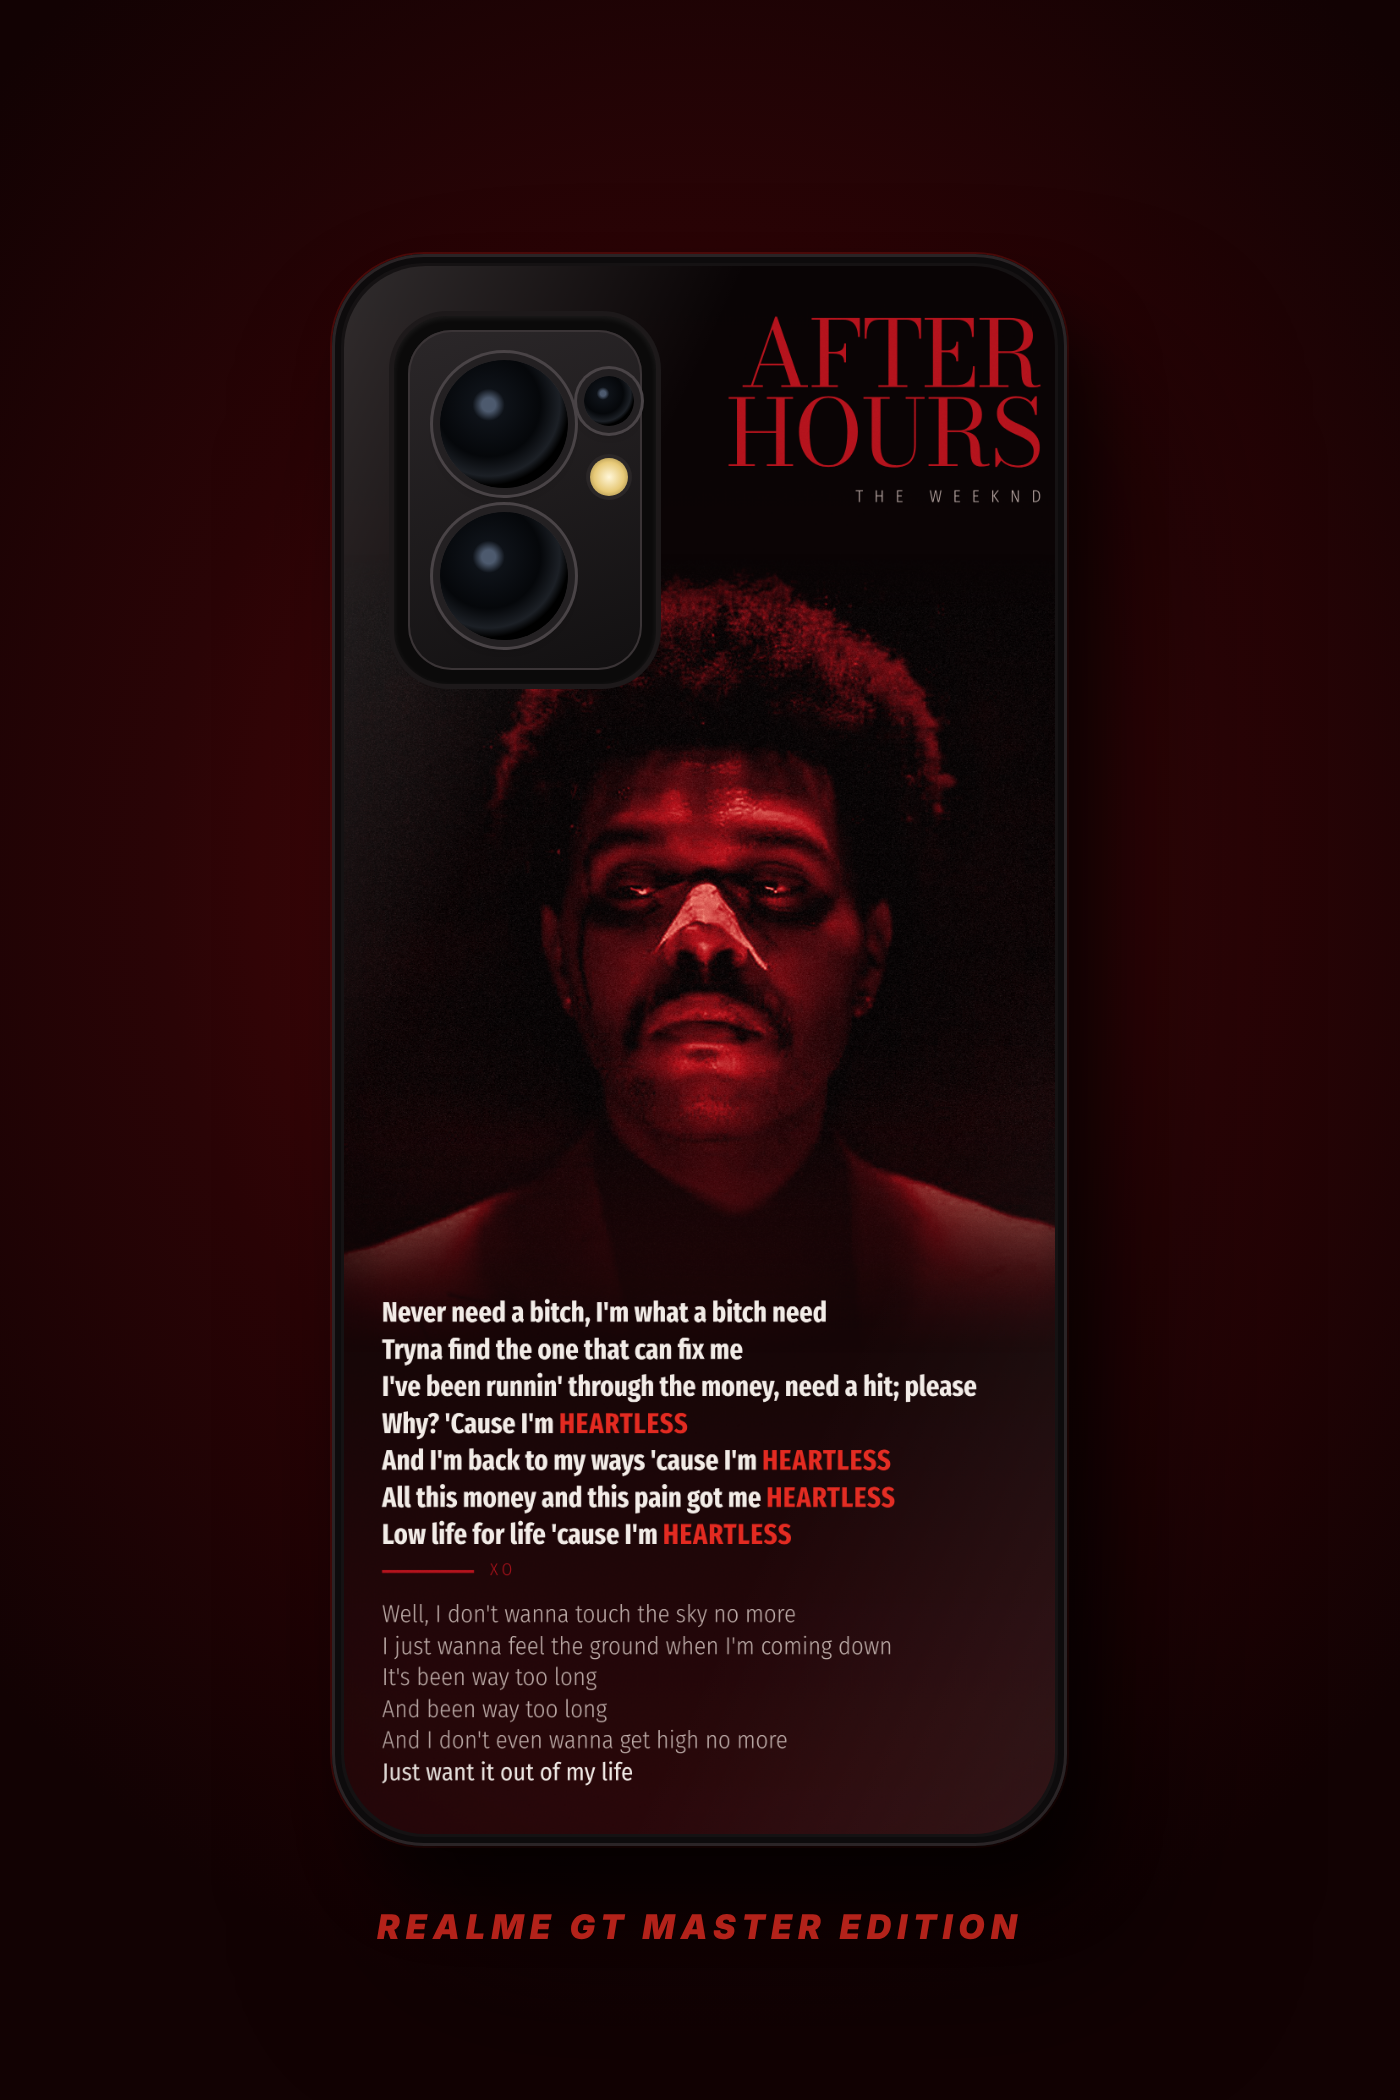
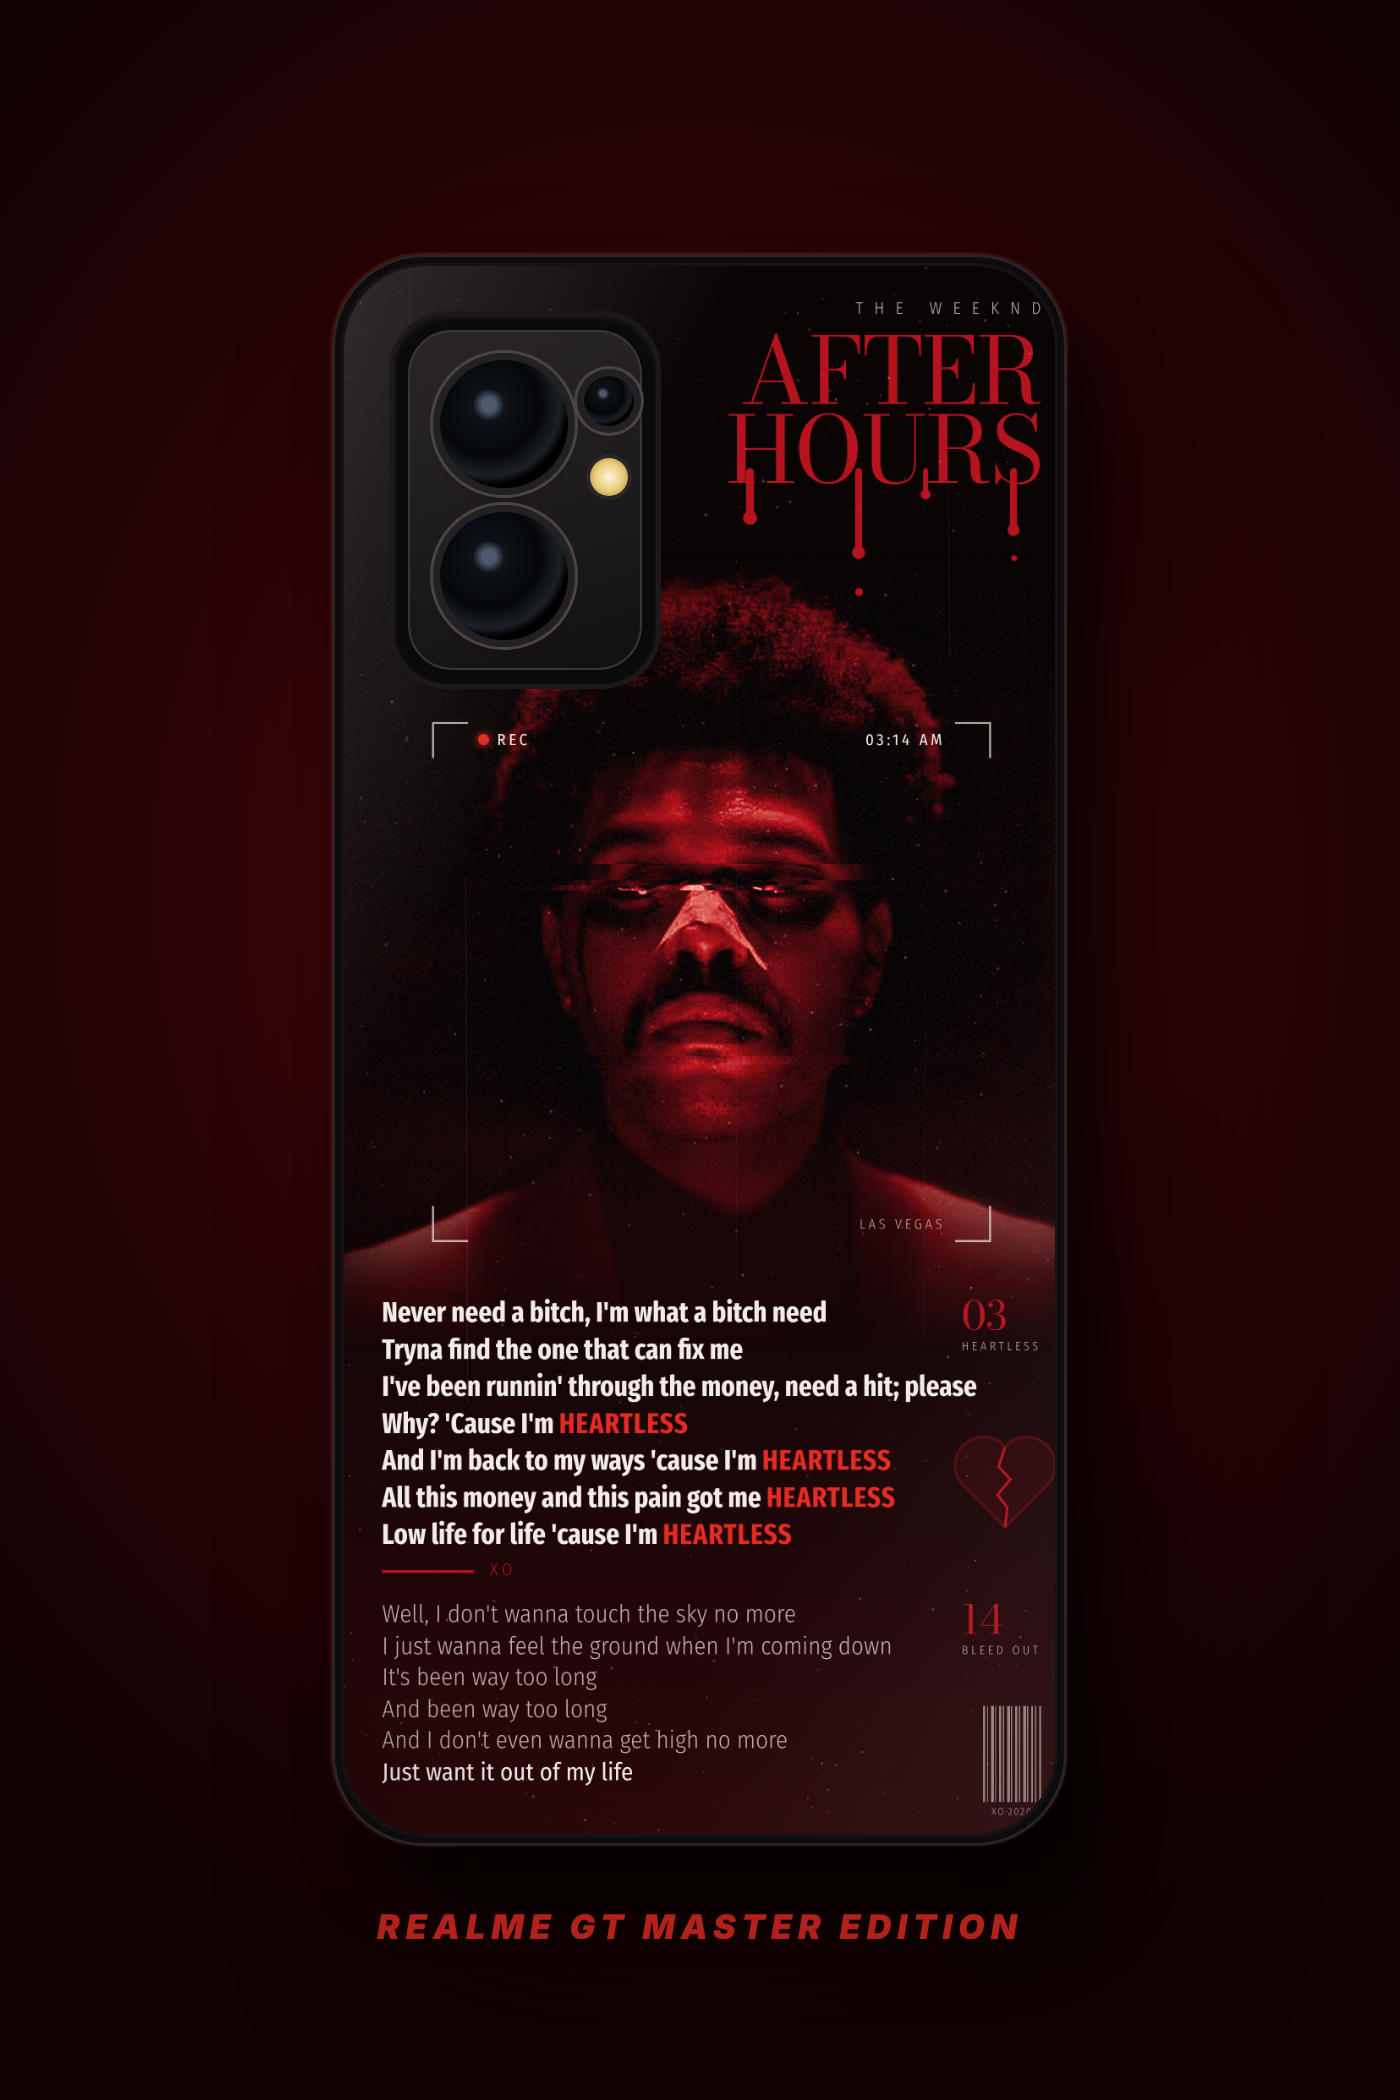
غلاف v3: إفكتات (نقط دم، شبح، جلتش، تراب فيلم، ضوء) + رموز (كادر REC، أرقام التراكات، قلب مكسور، باركود)
Claude-Session: https://claude.ai/code/session_011VfX9anDrDiMrvdnRutvkn

diff --git a/ghelaf/v3/cover.html b/ghelaf/v3/cover.html
@@ -19,9 +19,9 @@ html, body { margin: 0; background: #000; }
     linear-gradient(var(--coal) 0, #0d0405 55%, #2a0609 100%); }
 
 /* الماستهيد فوق يمين جنب الكاميرا */
-.mast { position: absolute; right: 68px; top: 78px; text-align: right; color: var(--blood); }
+.mast { position: absolute; right: 68px; top: 64px; text-align: right; color: var(--blood); }
 .mast h1 { margin: 0; font: 400 92px/.86 Bodoni; letter-spacing: -2px; }
-.mast small { display: block; margin-top: 16px; font: 300 17px/1 FiraC; letter-spacing: 11px; color: var(--mute); margin-right: -11px; }
+.mast small { display: block; margin-bottom: 14px; font: 300 17px/1 FiraC; letter-spacing: 11px; color: var(--mute); margin-right: -11px; }
 
 .portrait { position: absolute; left: -52px; top: 318px; width: 900px; }
 
@@ -36,17 +36,76 @@ html, body { margin: 0; background: #000; }
 .grain { position: absolute; inset: 0; opacity: .28; mix-blend-mode: overlay; pointer-events: none; }
 .vignette { position: absolute; inset: 0; pointer-events: none;
   background: radial-gradient(120% 90% at 50% 45%, transparent 55%, rgba(0,0,0,.55)); }
+
+/* ===== إفكتات ===== */
+/* شبح: نسخة مزحزحة من الصورة — إحساس الدوخة والوجع */
+.ghost { position: absolute; left: -38px; top: 314px; width: 900px; opacity: .28; mix-blend-mode: screen; filter: blur(1.5px); }
+/* جلتش: شرايح من الصورة متزحلقة عند العين والبق */
+.slice { position: absolute; left: -52px; top: 318px; width: 900px; }
+.s1 { clip-path: inset(38.6% 24% 59.4% 26%); transform: translateX(18px); }
+.s2 { clip-path: inset(41.2% 30% 58.1% 28%); transform: translateX(-12px); filter: brightness(1.5); }
+.s3 { clip-path: inset(62.5% 32% 36.4% 34%); transform: translateX(10px); }
+/* ضوء أحمر داخل من الركن */
+.leak { position: absolute; right: -180px; top: 380px; width: 520px; height: 620px; border-radius: 50%;
+  background: radial-gradient(closest-side, rgba(226,40,31,.32), transparent); mix-blend-mode: screen; }
+.dust { position: absolute; inset: 0; width: 795px; height: 1652px; opacity: .55; mix-blend-mode: screen; pointer-events: none; }
+.drips { position: absolute; left: 0; top: 0; }
+
+/* ===== رموز ===== */
+/* كادر كاميرا حوالين الوش */
+.vf { position: absolute; left: 118px; top: 486px; width: 559px; height: 520px; }
+.vf i { position: absolute; width: 34px; height: 34px; border: 0 solid rgba(242,235,230,.7); }
+.vf i:nth-child(1) { left: 0; top: 0; border-width: 2px 0 0 2px; }
+.vf i:nth-child(2) { right: 0; top: 0; border-width: 2px 2px 0 0; }
+.vf i:nth-child(3) { left: 0; bottom: 0; border-width: 0 0 2px 2px; }
+.vf i:nth-child(4) { right: 0; bottom: 0; border-width: 0 2px 2px 0; }
+.vf .rec { position: absolute; left: 46px; top: 10px; font: 400 16px/1 FiraC; letter-spacing: 3px; color: var(--ink); }
+.vf .rec::before { content: ""; display: inline-block; width: 11px; height: 11px; border-radius: 50%; background: var(--hot); margin-right: 8px; box-shadow: 0 0 8px var(--hot); }
+.vf .tc { position: absolute; right: 46px; top: 10px; font: 400 16px/1 FiraC; letter-spacing: 3px; color: var(--ink); }
+.vf .tc2 { position: absolute; right: 46px; bottom: 10px; font: 300 14px/1 FiraC; letter-spacing: 3px; color: var(--mute); }
+
+/* رقم التراك في الألبوم */
+.trk { position: absolute; right: 68px; font: 400 40px/1 Bodoni; color: var(--blood); }
+.trk small { display: block; text-align: right; font: 300 12px/1 FiraC; letter-spacing: 3px; color: var(--mute); margin-top: 4px; }
+.heart-mark { position: absolute; right: 50px; top: 1196px; width: 108px; opacity: .95; }
+.barcode { position: absolute; right: 68px; top: 1470px; width: 58px; text-align: center; }
+.barcode div { height: 96px; background: repeating-linear-gradient(90deg,
+  var(--mute) 0 2px, transparent 2px 4px, var(--mute) 4px 5px, transparent 5px 8px, var(--mute) 8px 11px, transparent 11px 12px, var(--mute) 12px 13px, transparent 13px 16px); opacity: .75; }
+.barcode span { display: block; margin-top: 5px; font: 300 10px/1 FiraC; letter-spacing: 1.5px; color: var(--mute); }
 </style>
 </head>
 <body>
 <div id="canvas">
   <div class="mast">
-    <h1>AFTER<br>HOURS</h1>
     <small>THE WEEKND</small>
+    <h1>AFTER<br>HOURS</h1>
   </div>
 
+  <div class="leak"></div>
+  <img class="ghost" src="portrait.png" alt="">
   <img class="portrait" src="portrait.png" alt="">
+  <img class="slice s1" src="portrait.png" alt="">
+  <img class="slice s2" src="portrait.png" alt="">
+  <img class="slice s3" src="portrait.png" alt="">
 
+  <div class="vf"><i></i><i></i><i></i><i></i>
+    <span class="rec">REC</span><span class="tc">03:14 AM</span><span class="tc2">LAS VEGAS</span>
+  </div>
+
+  <!-- نقط دم نازلة من HOURS -->
+  <svg class="drips" width="795" height="1652" fill="#b0121b">
+    <path d="M436 232 q4 0 4 6 v38 a7 7 0 1 1 -8 0 v-38 q0 -6 4 -6z"/>
+    <path d="M545 232 q3 0 3 5 v74 a6.5 6.5 0 1 1 -7 0 v-74 q0 -5 4 -5z"/>
+    <path d="M612 232 q2 0 2 4 v18 a5 5 0 1 1 -5 0 v-18 q0 -4 3 -4z"/>
+    <path d="M700 232 q3 0 3 5 v52 a6 6 0 1 1 -7 0 v-52 q0 -5 4 -5z"/>
+    <circle cx="545" cy="356" r="4"/><circle cx="700" cy="322" r="3"/>
+  </svg>
+
+  <div class="trk" style="top:1060px">03<small>HEARTLESS</small></div>
+  <svg class="heart-mark" viewBox="0 0 100 92" fill="none" stroke="#4a0a0f" stroke-width="3">
+    <path d="M50 88 L10 48 A22 22 0 0 1 50 14 A22 22 0 0 1 90 48 Z" fill="rgba(74,10,15,.35)"/>
+    <path d="M50 14 L44 32 L55 44 L43 58 L52 70 L50 88" stroke="#b0121b" stroke-width="2.5"/>
+  </svg>
   <div class="lyrics heart">
     Never need a bitch, I'm what a bitch need<br>
     Tryna find the one that can fix me<br>
@@ -59,6 +118,7 @@ html, body { margin: 0; background: #000; }
 
   <div class="rule"></div>
 
+  <div class="trk" style="top:1364px">14<small>BLEED OUT</small></div>
   <div class="lyrics bleed">
     Well, I don't wanna touch the sky no more<br>
     I just wanna feel the ground when I'm coming down<br>
@@ -68,6 +128,8 @@ html, body { margin: 0; background: #000; }
     <em>Just want it out of my life</em>
   </div>
 
+  <div class="barcode"><div></div><span>XO·2020</span></div>
+  <img class="dust" src="dust.png" alt="">
   <div class="vignette"></div>
   <svg class="grain" width="795" height="1652">
     <filter id="n"><feTurbulence type="fractalNoise" baseFrequency=".9" numOctaves="2" seed="4"/><feColorMatrix type="saturate" values="0"/></filter>

diff --git a/ghelaf/v3/prep_dust.py b/ghelaf/v3/prep_dust.py
@@ -1,0 +1,23 @@
+# طبقة تراب وخدوش فيلم شفافة على مقاس الكانفاس (٦٠٠ dpi) — seed ثابت
+from PIL import Image, ImageDraw, ImageFilter
+import random
+
+W, H = 1880, 3907
+random.seed(23)
+img = Image.new('RGBA', (W, H), (0, 0, 0, 0))
+d = ImageDraw.Draw(img)
+
+for _ in range(900):                                   # نقط تراب
+    x, y, r = random.uniform(0, W), random.uniform(0, H), random.choice([1, 1, 1.5, 2, 3])
+    d.ellipse((x - r, y - r, x + r, y + r), fill=(235, 220, 215, random.randint(40, 140)))
+for _ in range(60):                                    # شعر وألياف
+    x, y = random.uniform(0, W), random.uniform(0, H)
+    pts = [(x, y)]
+    for _ in range(random.randint(3, 7)):
+        x += random.uniform(-14, 14); y += random.uniform(-14, 14); pts.append((x, y))
+    d.line(pts, fill=(230, 215, 210, random.randint(40, 100)), width=1)
+for _ in range(7):                                     # خدوش طولية
+    x = random.uniform(80, W - 80); y0 = random.uniform(0, H * .6); L = random.uniform(400, 1600)
+    d.line([(x, y0), (x + random.uniform(-6, 6), y0 + L)], fill=(240, 225, 220, random.randint(35, 70)), width=random.choice([1, 2]))
+
+img.filter(ImageFilter.GaussianBlur(.6)).save('dust.png')

diff --git a/ghelaf/v3/README.md b/ghelaf/v3/README.md
@@ -5,6 +5,7 @@
 | `cover_print.png` | **ملف الطباعة** — ٧٩٫٥×١٦٥٫٢ مم (٣ مم نزيف) ~٦٠٠ dpi |
 | `mockup.png` | موكاب على الموبايل — مكان الكاميرا **تقريبي** |
 | `cover.html` / `mockup.html` | التصميم والموكاب |
+| `dust.png` | تراب وخدوش فيلم (`prep_dust.py`) |
 | `portrait.png` | البورتريه بباليتة الدم + شفافية الأطراف (`prep_portrait.py` من `src/portrait.jpg`) |
 
 الباليتة: فحمي `#080304` · نبيتي `#4a0a0f` · دم `#b0121b` · أحمر فاتح `#e2281f`
